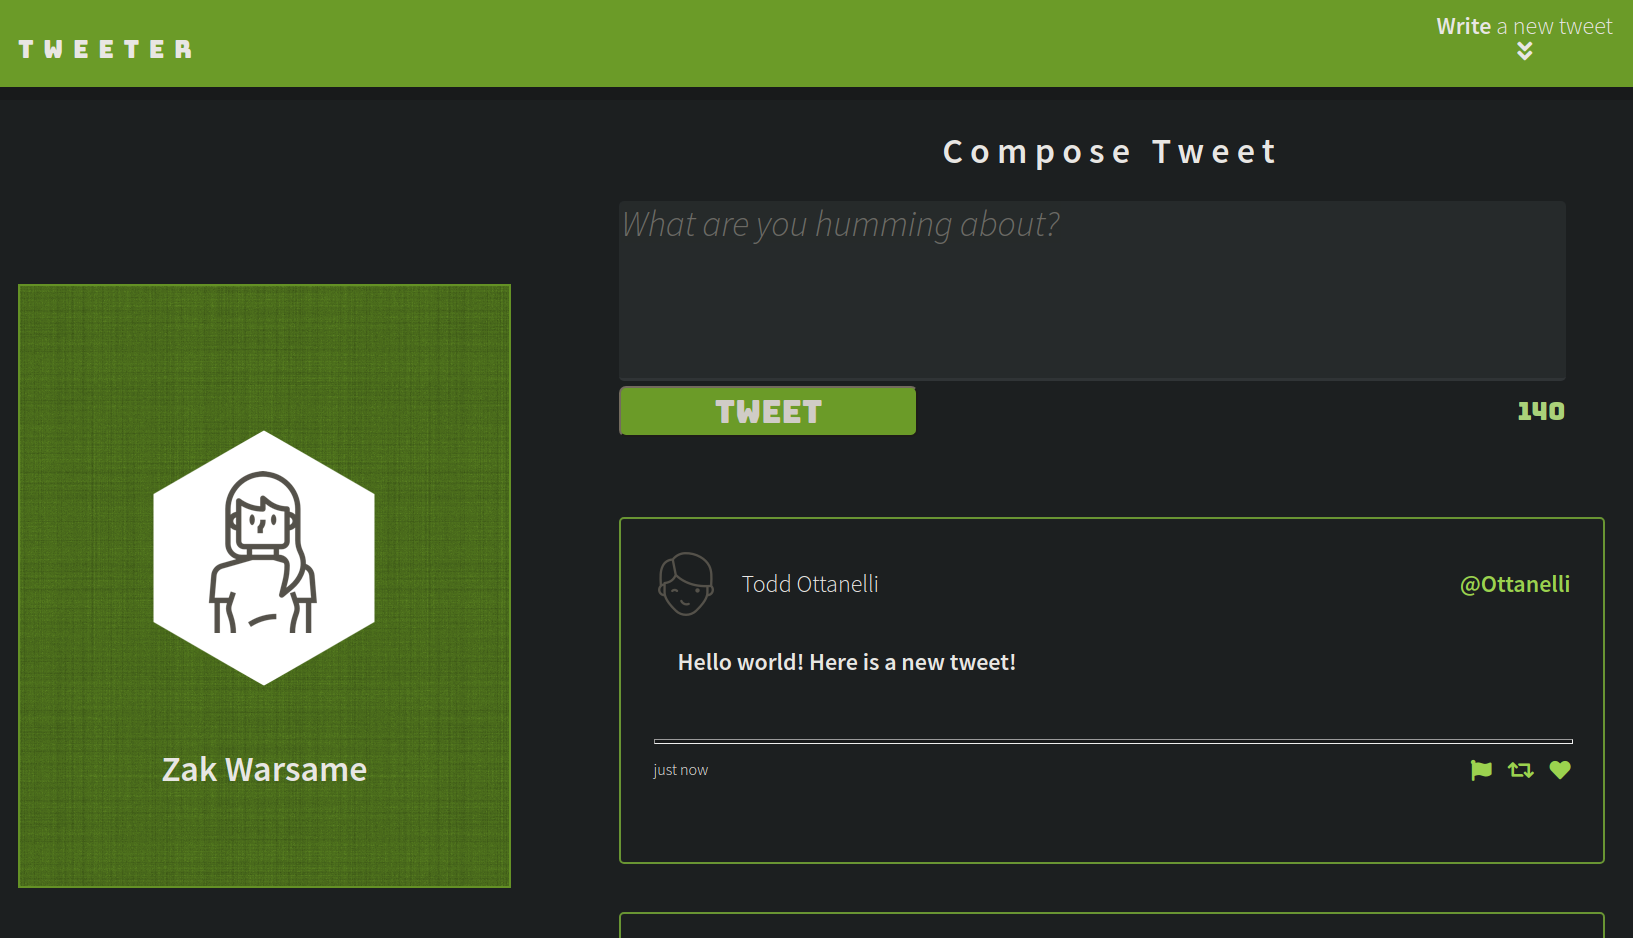
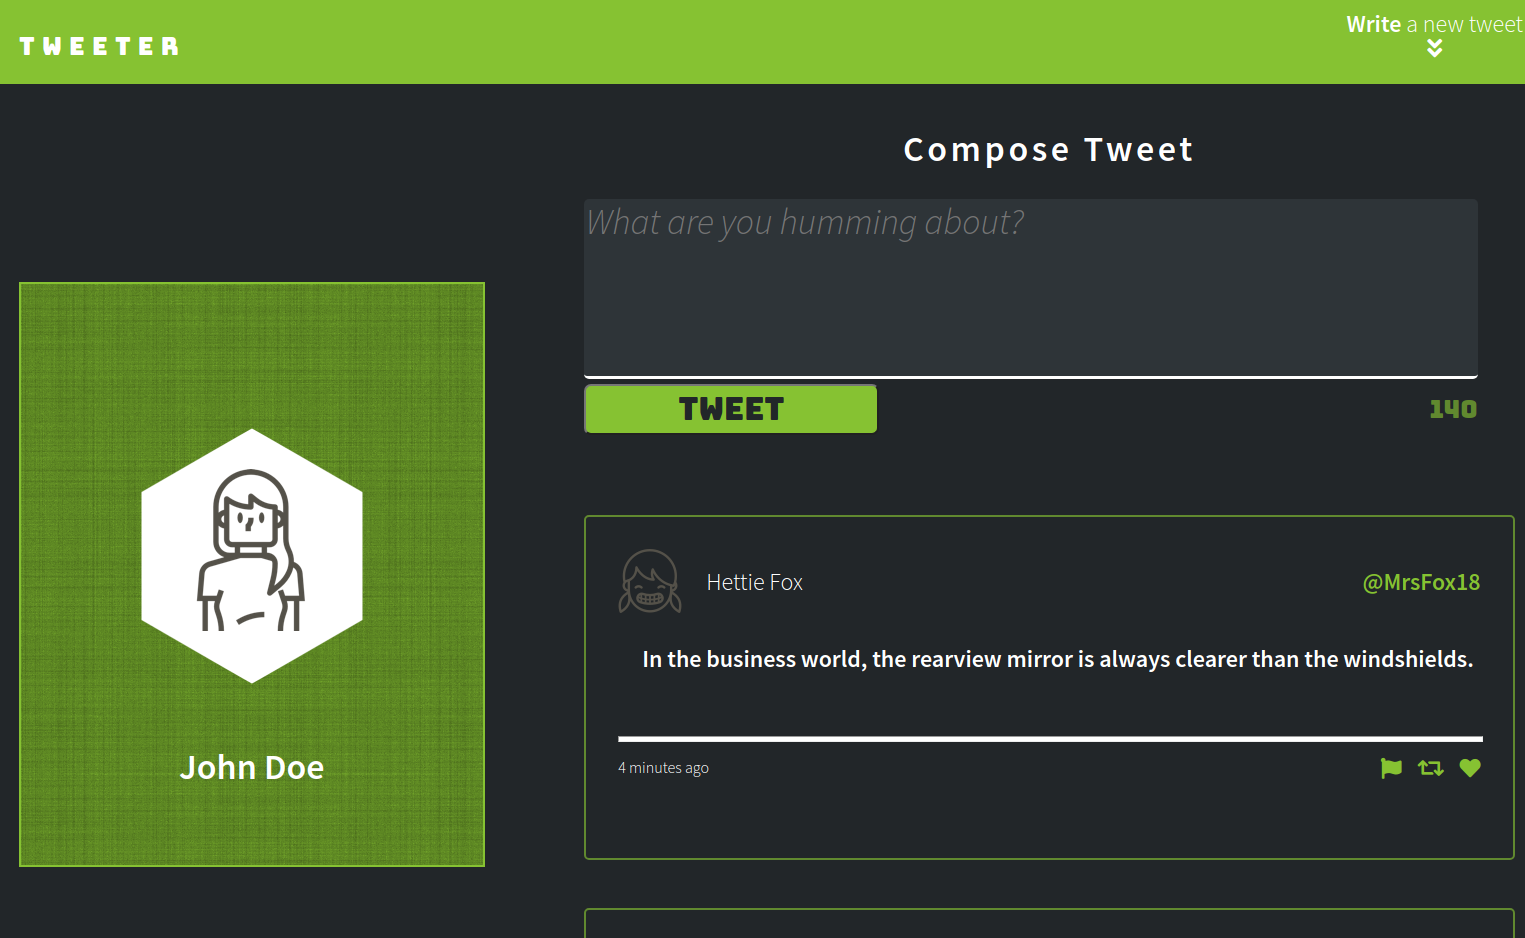
create gif for README

diff --git a/public/styles/new-tweet.css b/public/styles/new-tweet.css
@@ -44,7 +44,7 @@ textarea {
 
 
 .new-tweet h2{
-  letter-spacing: .2em;
+  letter-spacing: .1em;
 }
 
 .btn-submit {

diff --git a/README.md b/README.md
@@ -4,9 +4,9 @@ Tweeter is a simple, single-page Twitter clone.
 
 ## Screenshots
 
-!["URL view page for a logged in user"](https://github.com/zakwarsame/tweeter/blob/master/screenshots/1.png)
+!["URL view page for a logged in user"](https://github.com/zakwarsame/tweeter/blob/master/screenshots/2.gif)
 
-!["Specific URL page"](https://github.com/zakwarsame/tweeter/blob/master/screenshots/2.png)
+!["Specific URL page"](https://github.com/zakwarsame/tweeter/blob/master/screenshots/1.png)
 
 ## Getting Started
 
